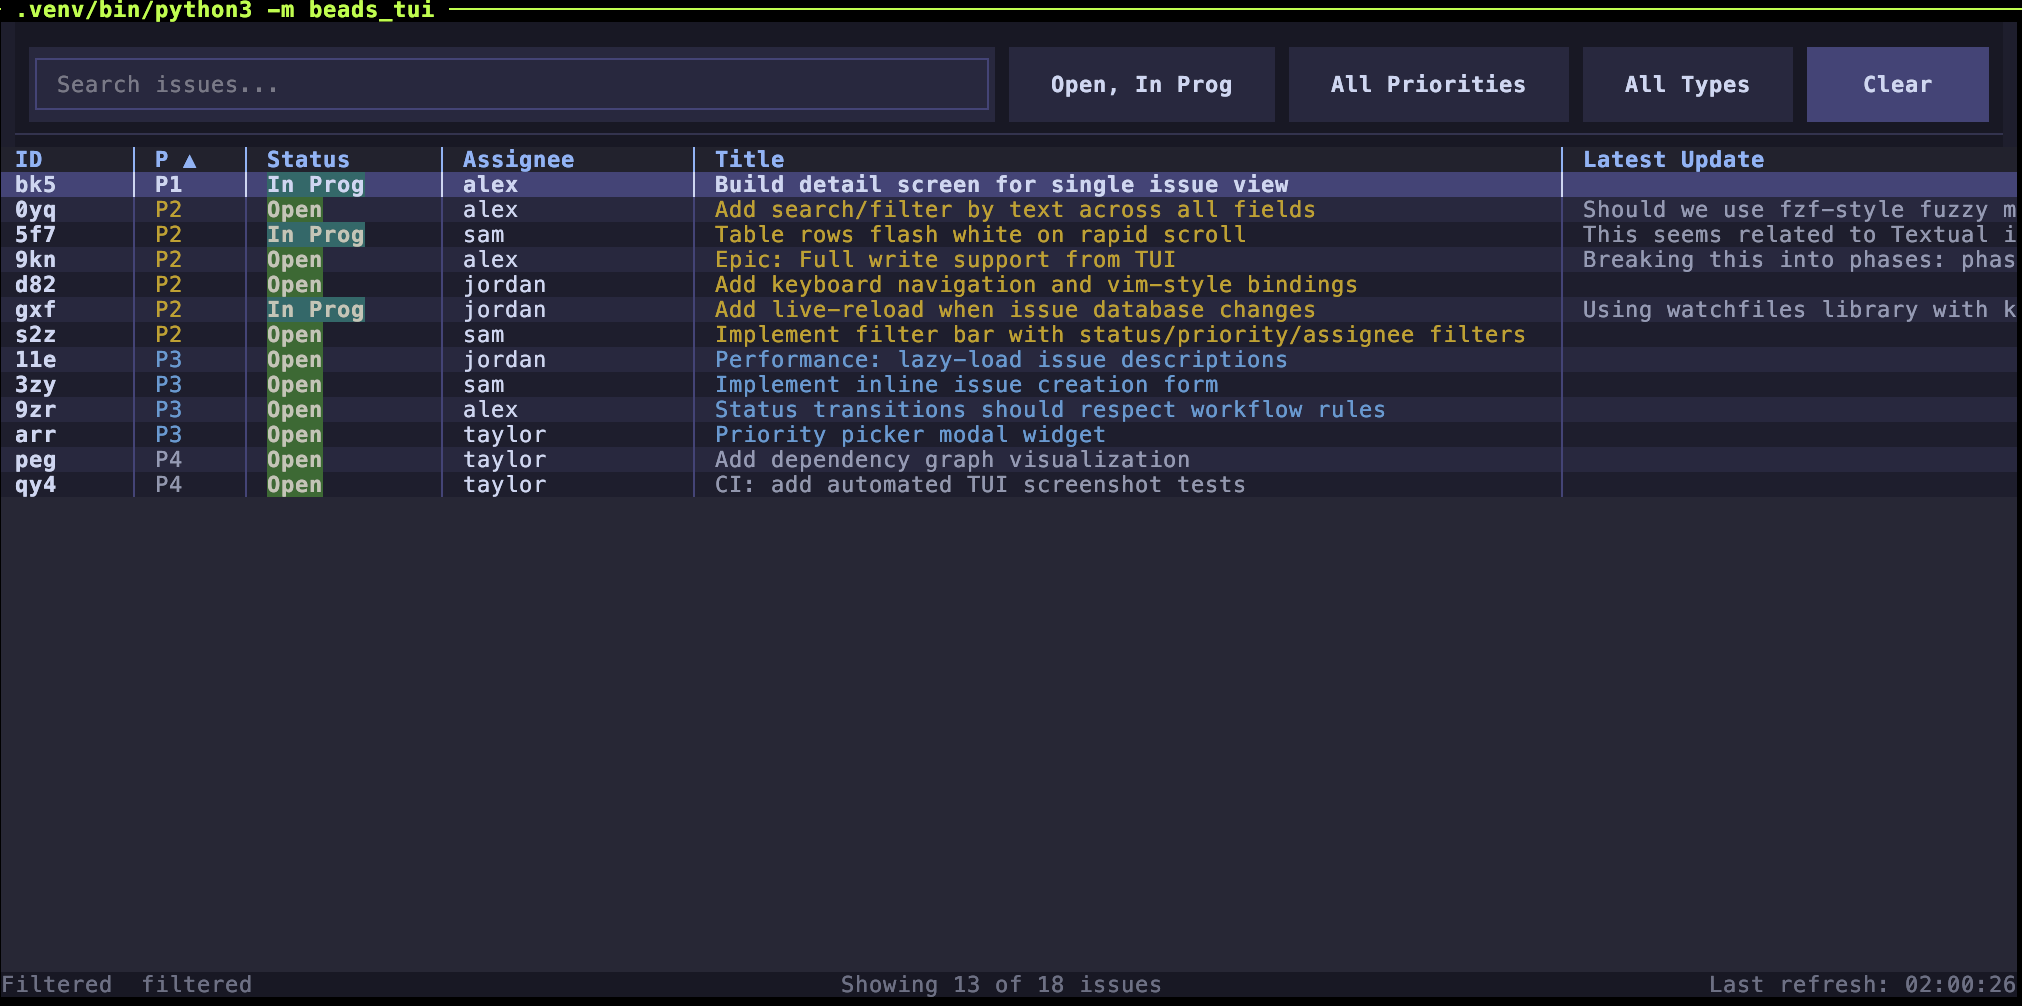
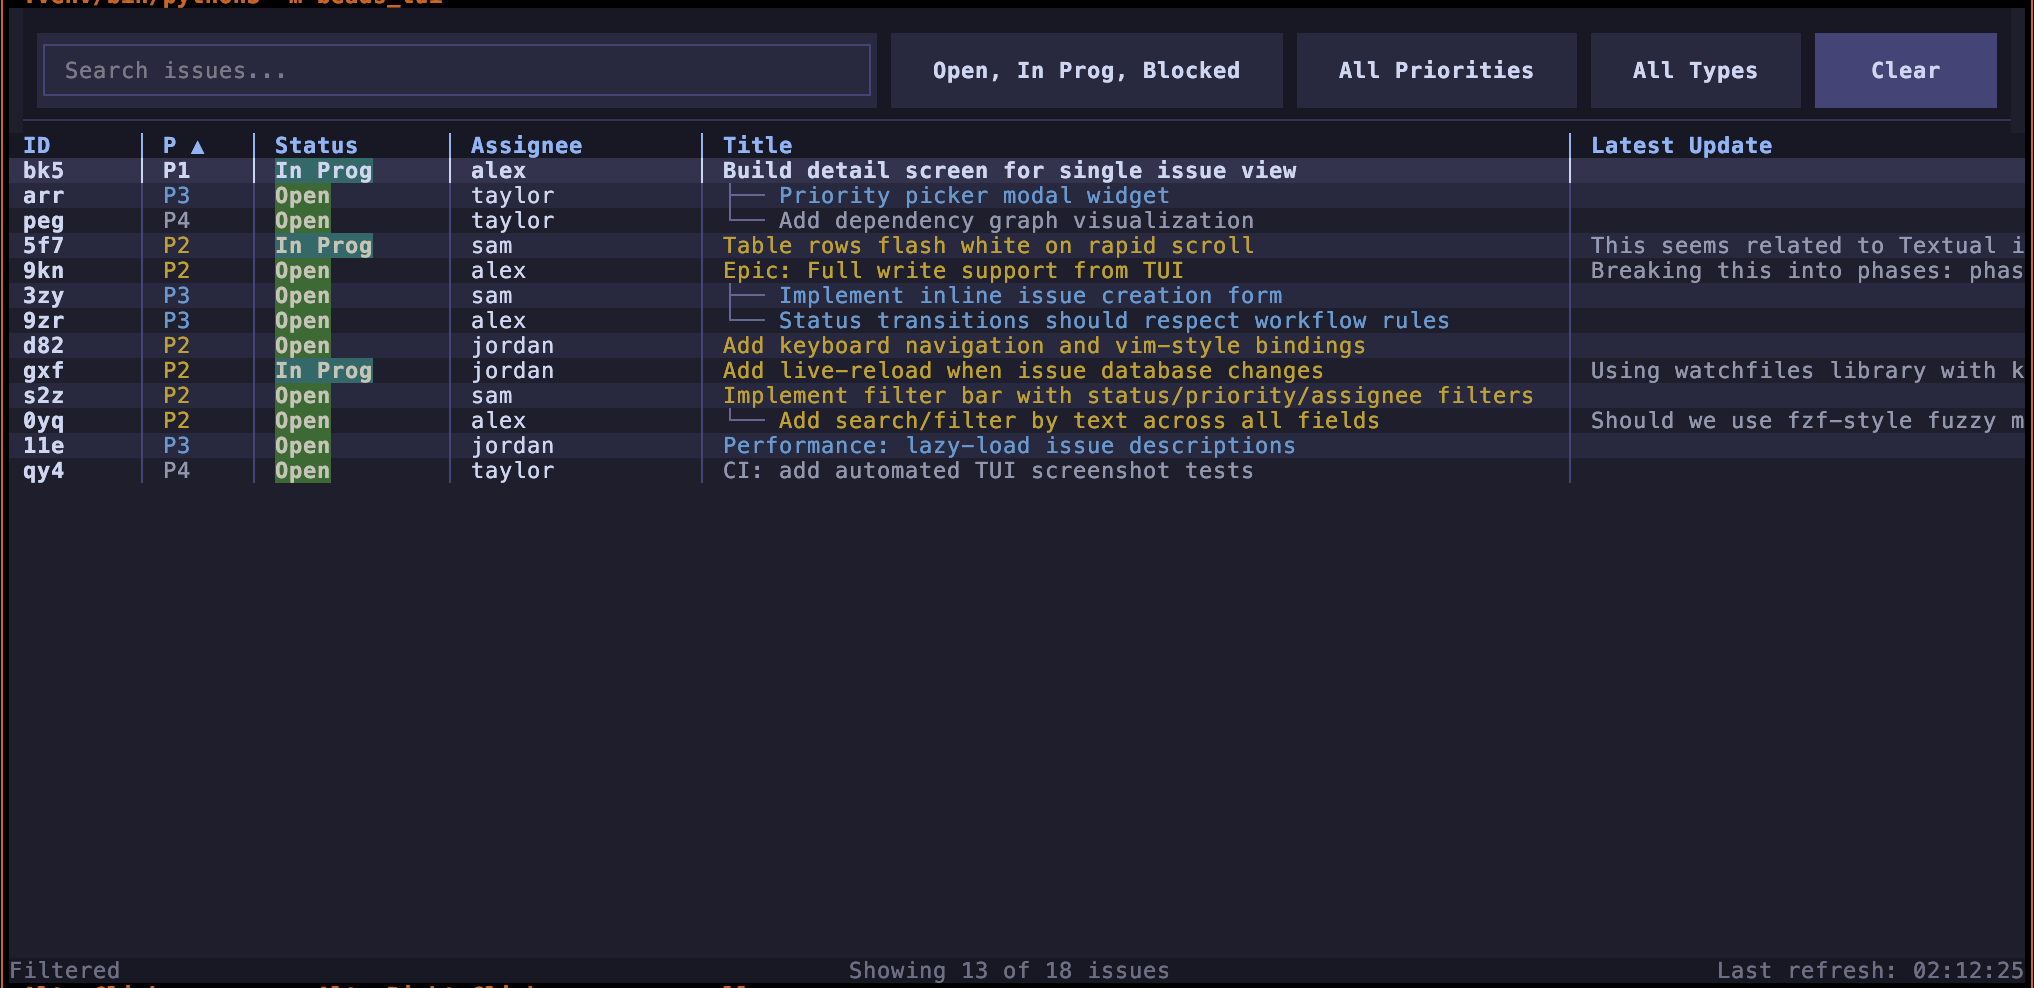
feat: tree view, default blocked filter, toast fix
- Add tree view toggle (t) showing dependency hierarchy with ASCII prefixes
- Add graph_all() to BdClient for bd graph --all --json
- Include blocked in default status filter
- Fix duplicate "Filtered filtered" in status bar
- Clear previous notification on toggle to prevent toast stacking
- Use on_key for filter modal navigation to fix ghost focus step

Changed region(s): [[0.0, 0.0, 1.0, 1.0], [0.7789, 0.4251, 0.8724, 0.4555]]

diff --git a/beads_tui/app.py b/beads_tui/app.py
@@ -119,6 +119,74 @@ DEFAULT_COLUMNS = ["id", "priority", "status", "assignee", "title", "last_commen
 
 
 # ---------------------------------------------------------------------------
+# Tree-view helpers
+# ---------------------------------------------------------------------------
+
+def _build_tree_order(
+    issues: list[Issue],
+    graph_data: list[dict],
+) -> list[tuple[Issue, str]]:
+    """Build tree-ordered issue list with ASCII prefix strings.
+
+    Returns list of (issue, prefix) tuples where prefix contains
+    tree-drawing characters (e.g. "├── ", "│   └── ").
+    """
+    children_map: dict[str, list[str]] = {}
+    has_parent: set[str] = set()
+
+    for entry in graph_data:
+        deps = entry.get("Dependencies") or []
+        for dep in deps:
+            parent_id = dep.get("depends_on_id", "")
+            child_id = dep.get("issue_id", "")
+            if parent_id and child_id:
+                children_map.setdefault(parent_id, []).append(child_id)
+                has_parent.add(child_id)
+
+    issue_map: dict[str, Issue] = {i.id: i for i in issues}
+    visible_ids = set(issue_map.keys())
+
+    roots = [i for i in issues if i.id not in has_parent]
+    roots.sort(key=lambda i: i.priority)
+
+    result: list[tuple[Issue, str]] = []
+    visited: set[str] = set()
+
+    def dfs(issue_id: str, prefix: str, is_last: bool, depth: int) -> None:
+        if issue_id in visited or issue_id not in issue_map:
+            return
+        visited.add(issue_id)
+
+        issue = issue_map[issue_id]
+
+        if depth == 0:
+            tree_prefix = ""
+            next_prefix = ""
+        else:
+            connector = "└── " if is_last else "├── "
+            tree_prefix = prefix + connector
+            next_prefix = prefix + ("    " if is_last else "│   ")
+
+        result.append((issue, tree_prefix))
+
+        child_ids = [c for c in children_map.get(issue_id, []) if c in visible_ids]
+        child_ids.sort(key=lambda cid: issue_map[cid].priority if cid in issue_map else 99)
+
+        for i, child_id in enumerate(child_ids):
+            is_last_child = (i == len(child_ids) - 1)
+            dfs(child_id, next_prefix, is_last_child, depth + 1)
+
+    for root in roots:
+        dfs(root.id, "", True, 0)
+
+    for issue in issues:
+        if issue.id not in visited:
+            result.append((issue, ""))
+
+    return result
+
+
+# ---------------------------------------------------------------------------
 # Sort helpers
 # ---------------------------------------------------------------------------
 
@@ -340,6 +408,7 @@ class BeadsTuiApp(LiveReloadMixin, App):
         Binding("s", "quick_status", "Status", show=False),
         Binding("x", "quick_close", "Close", show=False),
         Binding("i", "toggle_id_prefix", "Toggle ID", show=False),
+        Binding("t", "toggle_tree", "Tree"),
     ]
 
     def __init__(
@@ -361,6 +430,9 @@ class BeadsTuiApp(LiveReloadMixin, App):
         self._sort_reverse: bool = False
         self._quit_pending: bool = False
         self._strip_id_prefix: bool = True
+        self._tree_mode: bool = False
+        self._tree_prefixes: dict[str, str] = {}
+        self._graph_data: list[dict] = []
         self._last_comments: dict[str, str] = {}  # issue_id -> latest comment preview
         self._current_filters: dict = {
             "search": None,
@@ -480,6 +552,13 @@ class BeadsTuiApp(LiveReloadMixin, App):
                 val = Text(preview, style="dim") if preview else Text("")
             elif col_key == "id" and self._strip_id_prefix:
                 val = _styled(_short_id(issue.id), "bold")
+            elif col_key == "title" and self._tree_mode:
+                prefix = self._tree_prefixes.get(issue.id, "")
+                _, style = _PRIORITY_STYLES.get(issue.priority, ("", ""))
+                if prefix:
+                    val = Text.assemble(Text(prefix, style="#666699"), Text(issue.title, style=style))
+                else:
+                    val = _styled(issue.title, style)
             else:
                 col_def = AVAILABLE_COLUMNS.get(col_key)
                 val = col_def.getter(issue) if col_def else Text("")
@@ -500,6 +579,11 @@ class BeadsTuiApp(LiveReloadMixin, App):
             issues = await self.client.list_issues(all_=True)
         except BdError:
             issues = []
+        if self._tree_mode:
+            try:
+                self._graph_data = await self.client.graph_all()
+            except BdError:
+                self._graph_data = []
         self._issues = issues
         self._apply_filters_and_sort()
         self._rebuild_columns()
@@ -580,13 +664,18 @@ class BeadsTuiApp(LiveReloadMixin, App):
         if types is not None:
             filtered = [i for i in filtered if i.issue_type in types]
 
-        # Sort
-        filtered.sort(
-            key=lambda i: _sort_key_for_column(self._sort_column, i),
-            reverse=self._sort_reverse,
-        )
-
-        self._filtered_issues = filtered
+        # Sort or tree-order
+        if self._tree_mode and self._graph_data:
+            tree_ordered = _build_tree_order(filtered, self._graph_data)
+            self._filtered_issues = [issue for issue, _ in tree_ordered]
+            self._tree_prefixes = {issue.id: prefix for issue, prefix in tree_ordered}
+        else:
+            filtered.sort(
+                key=lambda i: _sort_key_for_column(self._sort_column, i),
+                reverse=self._sort_reverse,
+            )
+            self._filtered_issues = filtered
+            self._tree_prefixes = {}
 
     def _populate_table(self) -> None:
         table = self.query_one("#issue-table", DataTable)
@@ -859,3 +948,12 @@ class BeadsTuiApp(LiveReloadMixin, App):
         self._populate_table()
         label = "short" if self._strip_id_prefix else "full"
         self.notify(f"ID format: {label}")
+
+    def action_toggle_tree(self) -> None:
+        self._tree_mode = not self._tree_mode
+        self.clear_notifications()
+        label = "ON" if self._tree_mode else "OFF"
+        self.notify(f"Tree view {label}", timeout=1.5)
+        if not self._tree_mode:
+            self._tree_prefixes = {}
+        self._load_issues()

diff --git a/beads_tui/bd_client.py b/beads_tui/bd_client.py
@@ -294,6 +294,15 @@ class BdClient:
         await self._run_bd("label", "remove", issue_id, label, parse_json=False)
 
     # ------------------------------------------------------------------
+    # Graph
+    # ------------------------------------------------------------------
+
+    async def graph_all(self) -> list[dict]:
+        """Fetch the full dependency graph (bd graph --all --json)."""
+        data = await self._run_bd("graph", "--all")
+        return data or []
+
+    # ------------------------------------------------------------------
     # Status
     # ------------------------------------------------------------------
 

diff --git a/beads_tui/widgets/filter_bar.py b/beads_tui/widgets/filter_bar.py
@@ -127,7 +127,7 @@ _STATUS_CHOICES: list[tuple[str, str]] = [
     ("Closed", "closed"),
 ]
 
-_DEFAULT_STATUSES: frozenset[str] = frozenset({"open", "in_progress"})
+_DEFAULT_STATUSES: frozenset[str] = frozenset({"open", "in_progress", "blocked"})
 
 _ABBREV: dict[str, str] = {
     "open": "Open",
